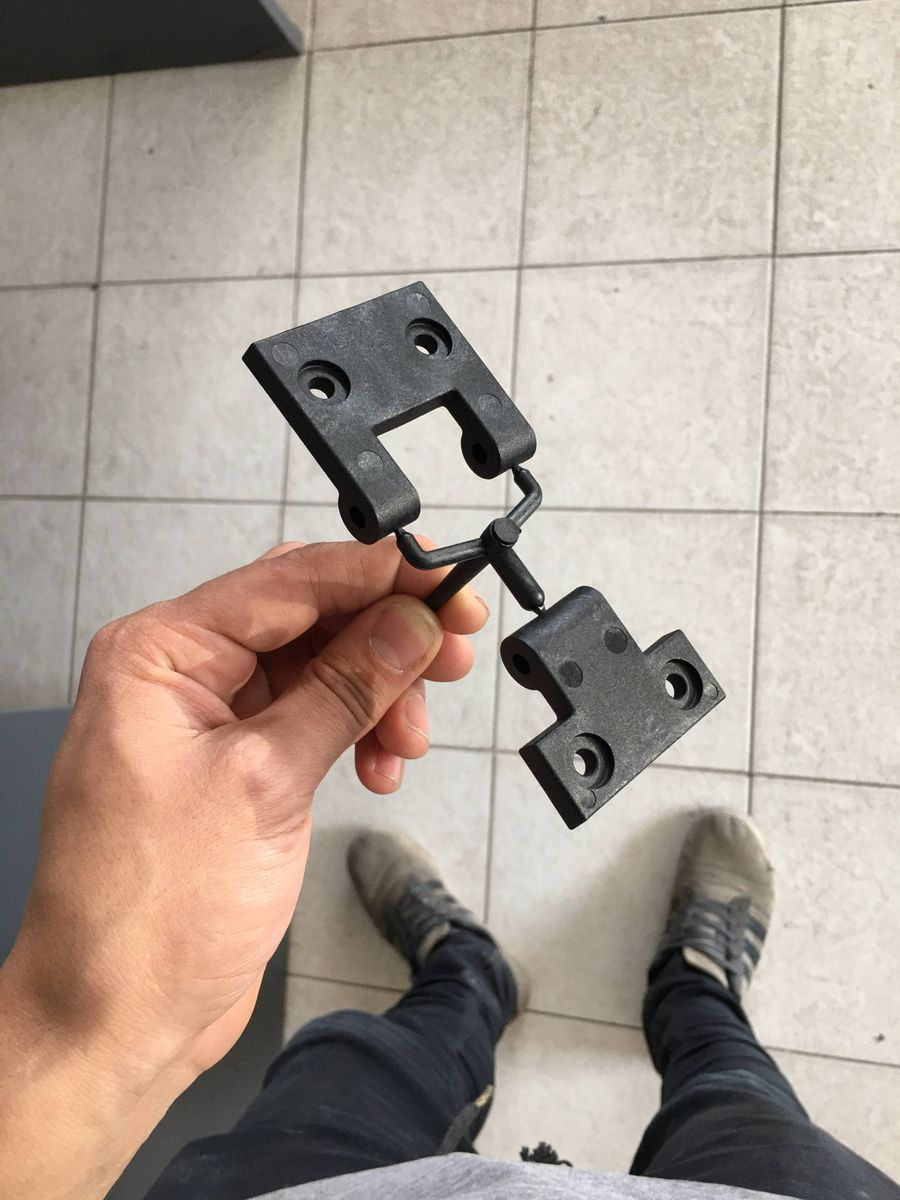
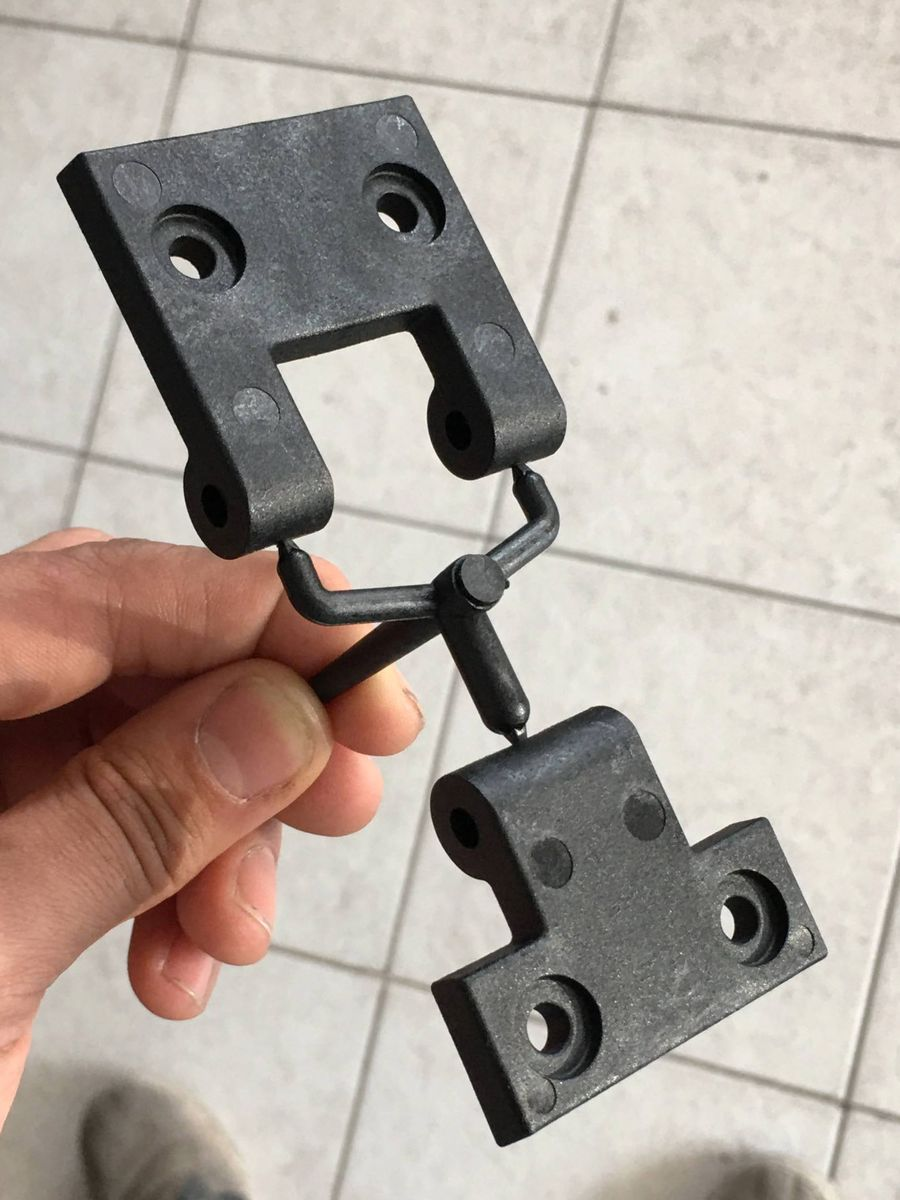
Bisagra: foto más cerrada de la pieza recién inyectada
Claude-Session: https://claude.ai/code/session_01638GQR5QWwYxM8MmgUFgoU

diff --git a/proyectos/bisagra.html b/proyectos/bisagra.html
@@ -85,7 +85,7 @@
       </div>
     </div>
     <div class="g" style="grid-template-columns: 0.750fr 0.750fr 0.750fr">
-      <figure class="tile"><img src="../assets/img/bisagra/inyectada-1.jpg" alt="Bisagra inyectada en poliamida, abierta" width="900" height="1200" loading="lazy"></figure>
+      <figure class="tile"><img src="../assets/img/bisagra/inyectada-1.jpg" alt="Las dos hojas de la bisagra recién inyectadas, todavía unidas a la colada" width="900" height="1200" loading="lazy"></figure>
       <figure class="tile"><img src="../assets/img/bisagra/lote.jpg" alt="Lote de bisagras inyectadas" width="900" height="1200" loading="lazy"></figure>
       <figure class="tile"><img src="../assets/img/bisagra/lote-2.jpg" alt="Bolsa con bisagras inyectadas" width="900" height="1200" loading="lazy"></figure>
     </div>
